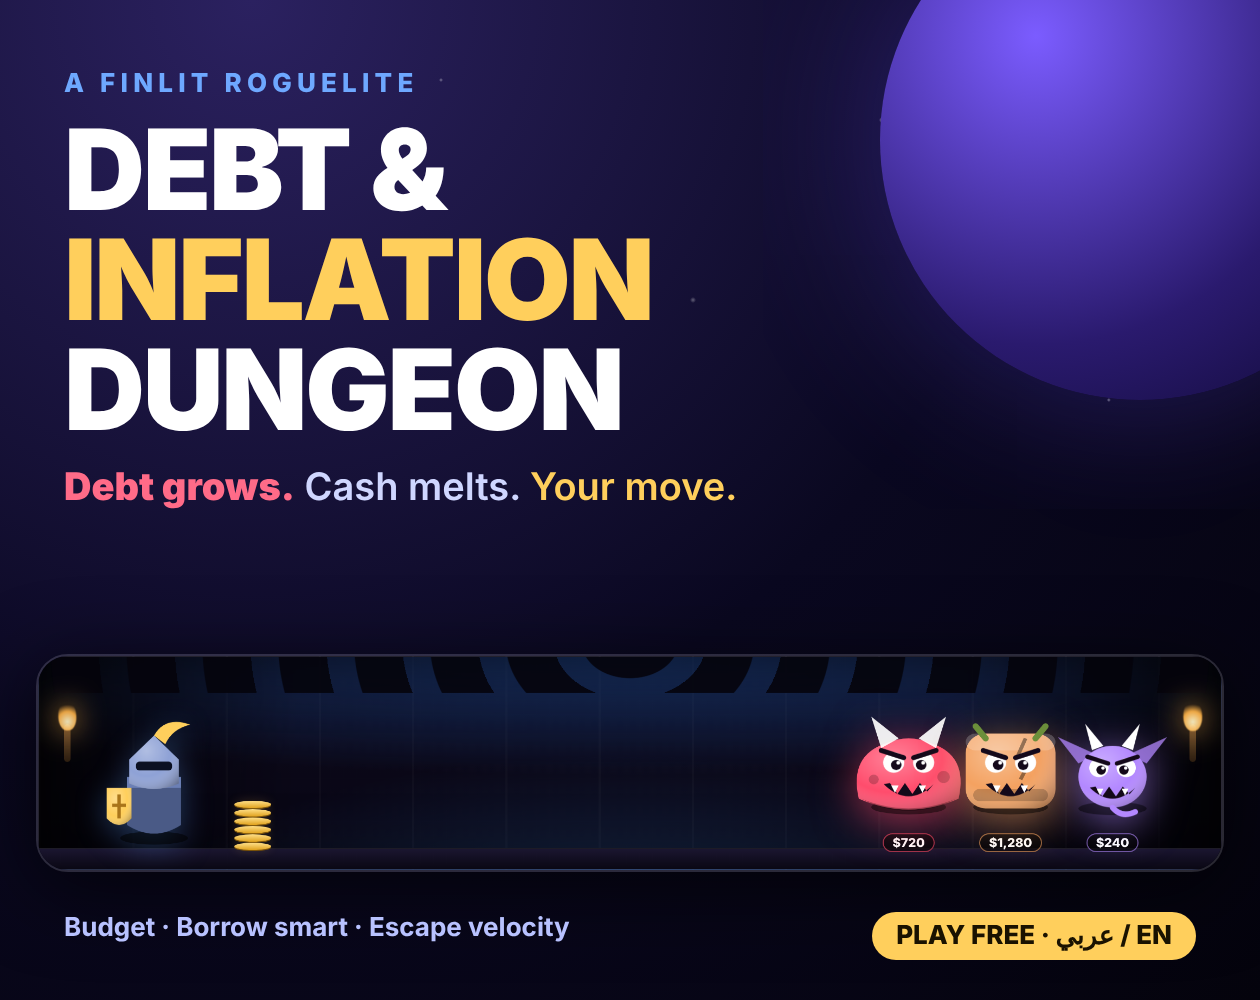
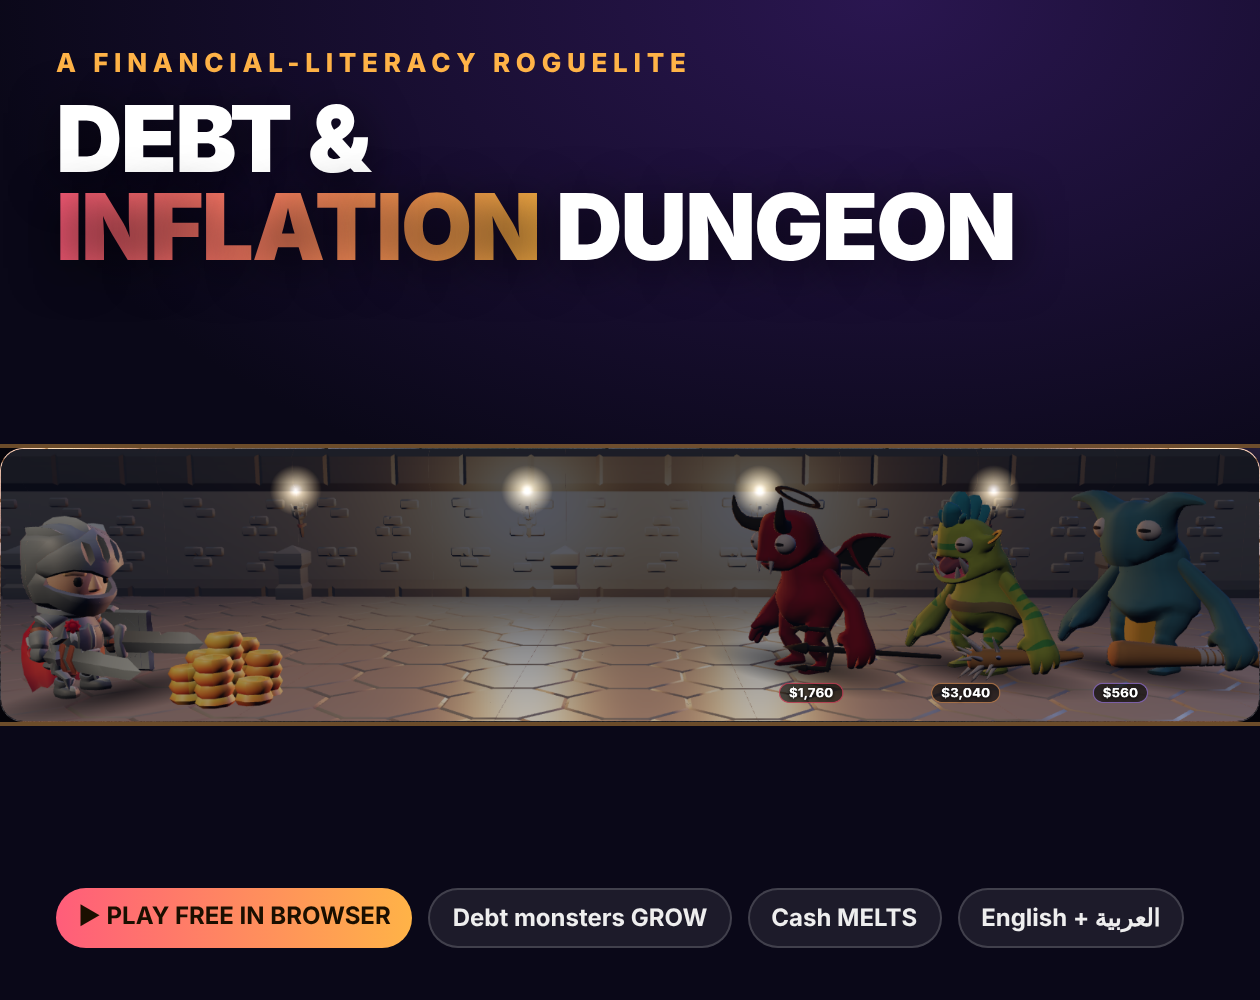
Docs: 3D arena + soundtrack, new itch cover and screenshots
Claude-Session: https://claude.ai/code/session_018JD6s2syzimkdXhJeBHTZL

diff --git a/README.md b/README.md
@@ -99,6 +99,9 @@ Expected shape: doing nothing loses; lavish living plus status purchases loses; 
 - [Game budget and production plan](docs/BUDGET.md)
 - [Submission pack](docs/SUBMISSION.md)
 
+## Presentation
+Real-time 3D dungeon arena (three.js) with animated knight and monsters, plus an original procedural soundtrack generated in WebAudio (no audio files, per-floor key and tempo, win and lose moods). Mute button top right.
+
 ## Credits
 Real-time 3D arena built with [three.js](https://threejs.org). All 3D art is CC0:
 - Knight and dungeon pieces: [KayKit](https://kaylousberg.com) by Kay Lousberg (Adventurers 1.0, Dungeon Remastered 1.0)

diff --git a/docs/ITCH_PAGE.md b/docs/ITCH_PAGE.md
@@ -36,3 +36,8 @@ Made for Zoud GameLab 2026 (Make FinLit Fun).
 
 ## Controls
 Tap or click. Keyboard: 1 to 9 pay a monster (Shift = pay all), I insurance, Enter or E end month, ? help.
+
+
+---
+Add to the page description: "Real-time 3D dungeon, animated knight and monsters, and an original procedural soundtrack that changes with each floor. Sound can be muted top right."
+Screenshots to upload: itch-screenshot-3d-game.png, itch-screenshot-3d-arena.png.
